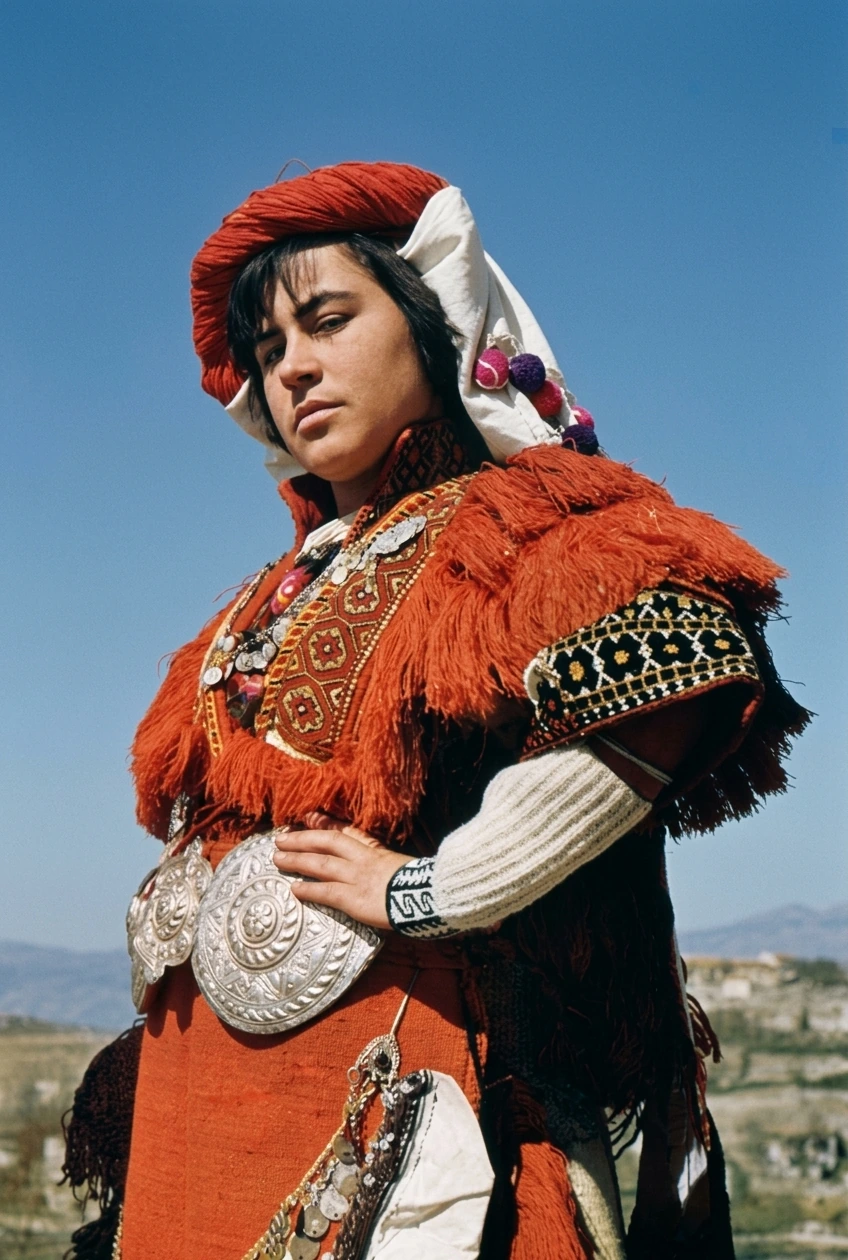
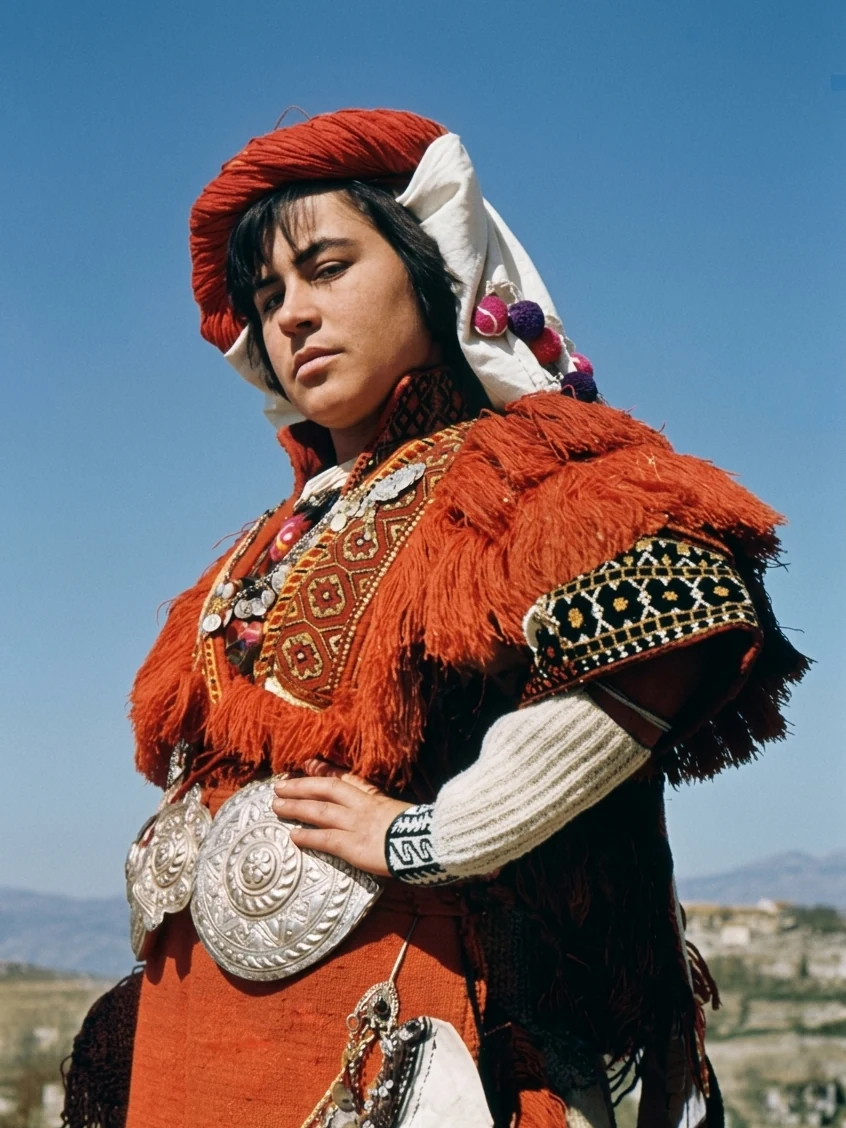
Add the Mariovo portrait to Blagoja Drnkov’s photo essay

diff --git a/blagoja-drnkov.html b/blagoja-drnkov.html
@@ -4,7 +4,7 @@
 <meta charset="utf-8">
 <meta name="viewport" content="width=device-width, initial-scale=1">
 <title>Blagoja Drnkov: More Than Words | Muzej Catalogue</title>
-<meta name="description" content="Eight photographs by Blagoja Drnkov, including a potter at work and a wedding procession in Galičnik.">
+<meta name="description" content="Nine photographs, including a potter at work and a wedding procession in Galičnik.">
 <link rel="stylesheet" href="editorial-sources.css?v=20261124-editorial">
 <link rel="stylesheet" href="muzej-footer-logo.css?v=20261124-editorial">
 <link rel="stylesheet" href="fonts.css?v=20261124-editorial">
@@ -139,7 +139,7 @@ body main .catalogue-sources > .sources-section.muzej-sources {
 <script defer src="muzej-header.js?v=20261121-site-nav"></script>
 <link rel="stylesheet" href="more-from-muzej.css?v=20261124-editorial">
 <script src="more-from-muzej.js?v=20261124-editorial" defer></script>
-<meta property="og:type" content="article"><meta property="og:title" content="Blagoja Drnkov: More Than Words | Muzej"><meta property="og:description" content="Eight photographs by Blagoja Drnkov, including a potter at work and a wedding procession in Galičnik."><meta property="og:image" content="https://muzej.co/Assets/Drnkov/catalogue-hero.webp"><meta property="og:url" content="https://muzej.co/blagoja-drnkov.html"><link rel="canonical" href="https://muzej.co/blagoja-drnkov.html"><link rel="icon" href="./Assets/Muzej%20Logo/MuzejNewWord.png" type="image/png"></head>
+<meta property="og:type" content="article"><meta property="og:title" content="Blagoja Drnkov: More Than Words | Muzej"><meta property="og:description" content="Nine photographs, including a potter at work and a wedding procession in Galičnik."><meta property="og:image" content="https://muzej.co/Assets/Drnkov/catalogue-hero.webp"><meta property="og:url" content="https://muzej.co/blagoja-drnkov.html"><link rel="canonical" href="https://muzej.co/blagoja-drnkov.html"><link rel="icon" href="./Assets/Muzej%20Logo/MuzejNewWord.png" type="image/png"></head>
 <body>
 <header class="site-header">
 <div class="shell header-frame">
@@ -156,7 +156,7 @@ body main .catalogue-sources > .sources-section.muzej-sources {
       <h1 class="muzej-article-title">Blagoja Drnkov:<br>More Than Words</h1>
     </div>
     <div class="muzej-intro-media">
-      <figure class="profile-hero"><a class="plate-media portrait-hero" href="./Assets/Drnkov/catalogue-hero.webp"><img src="./Assets/Drnkov/catalogue-hero.webp" width="894" height="1192" alt="Blagoja Drnkov holding a camera" decoding="async" fetchpriority="high"></a></figure><p class="profile-deck muzej-intro-deck">Eight photographs by Blagoja Drnkov, including a potter at work and a wedding procession in Galičnik.</p>
+      <figure class="profile-hero"><a class="plate-media portrait-hero" href="./Assets/Drnkov/catalogue-hero.webp"><img src="./Assets/Drnkov/catalogue-hero.webp" width="894" height="1192" alt="Blagoja Drnkov holding a camera" decoding="async" fetchpriority="high"></a></figure><p class="profile-deck muzej-intro-deck">Nine photographs, including a potter at work and a wedding procession in Galičnik.</p>
     </div>
   </header>
 
@@ -205,6 +205,11 @@ body main .catalogue-sources > .sources-section.muzej-sources {
           <figcaption><span class="plate-title"><i>The Mirovačka Bride</i></span>, 1963.</figcaption>
         </figure>
       </div>
+      <div class="portfolio-row portrait-solo">
+        <figure class="photo-plate">
+          <a class="plate-media" href="./Assets/Drnkov/catalogue-mariovo.webp"><img src="./Assets/Drnkov/catalogue-mariovo.webp" width="846" height="1128" alt="A woman in red fringed folk dress and an engraved metal belt buckle stands against a blue sky." decoding="async" loading="lazy"></a>
+        </figure>
+      </div>
       <div class="portfolio-row closing">
         <figure class="photo-plate">
           <a class="plate-media" href="./Assets/Drnkov/catalogue-mak.webp"><img src="./Assets/Drnkov/catalogue-mak.webp" width="816" height="1285" alt="An older man with a white mustache wears a dark fur hat." decoding="async" loading="lazy"></a>
@@ -220,7 +225,7 @@ body main .catalogue-sources > .sources-section.muzej-sources {
           <p><a href="https://www.academia.edu/101167484/Povekje_od_Zborovi_More_than_words_Blagoja_Drnkov_in_the_ethnological_museum_archive">Jovan Šurbanoski, <i>More Than Words</i>, 2022.</a> Exhibition catalogue on Drnkov’s photographs in the ethnological museum archive.</p>
           <p><a href="https://kinoteka.mk/en/lichnosti/drnkov-blagoja/">Cinematheque of Macedonia. Blagoja Drnkov.</a> Biography and filmography.</p>
           <p><a href="https://macedonia.kroraina.com/mak_enc/encyclopaedia_macedonica_2.pdf#page=737">Macedonian Academy of Sciences and Arts. <i>Macedonian Encyclopedia</i>, vol. 2, 2009, p. 1529.</a> Reproduction of <i>The Mirovačka Bride</i>.</p>
-          <p>The photographs were supplied to Muzej. Credits for the opening portrait, the cotton harvest, both shoreline photographs, and the closing portrait are unconfirmed.</p>
+          <p>The photographs were supplied to Muzej. Credits for the opening portrait, the cotton harvest, both shoreline photographs, the Mariovo portrait, and the closing portrait are unconfirmed.</p>
       </div>
       </details>
     </div>
